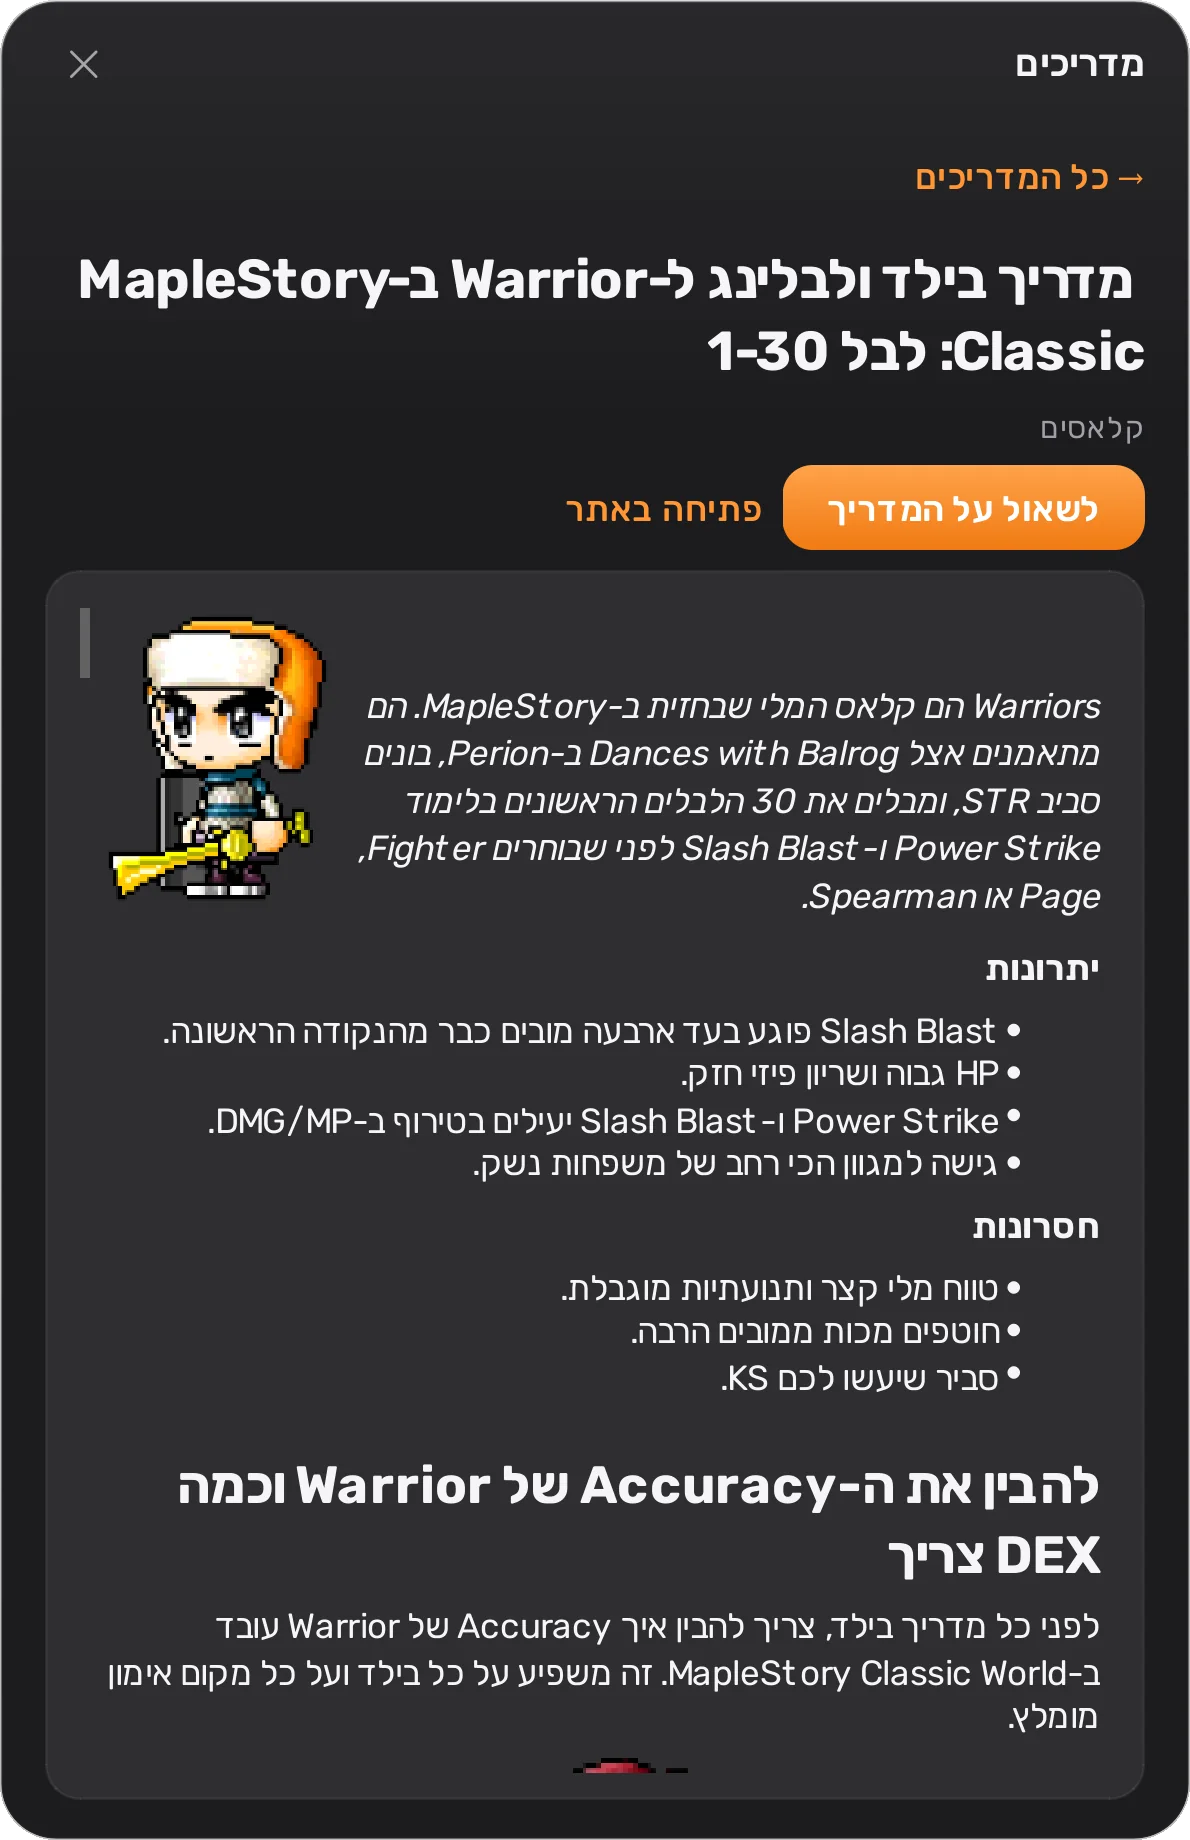
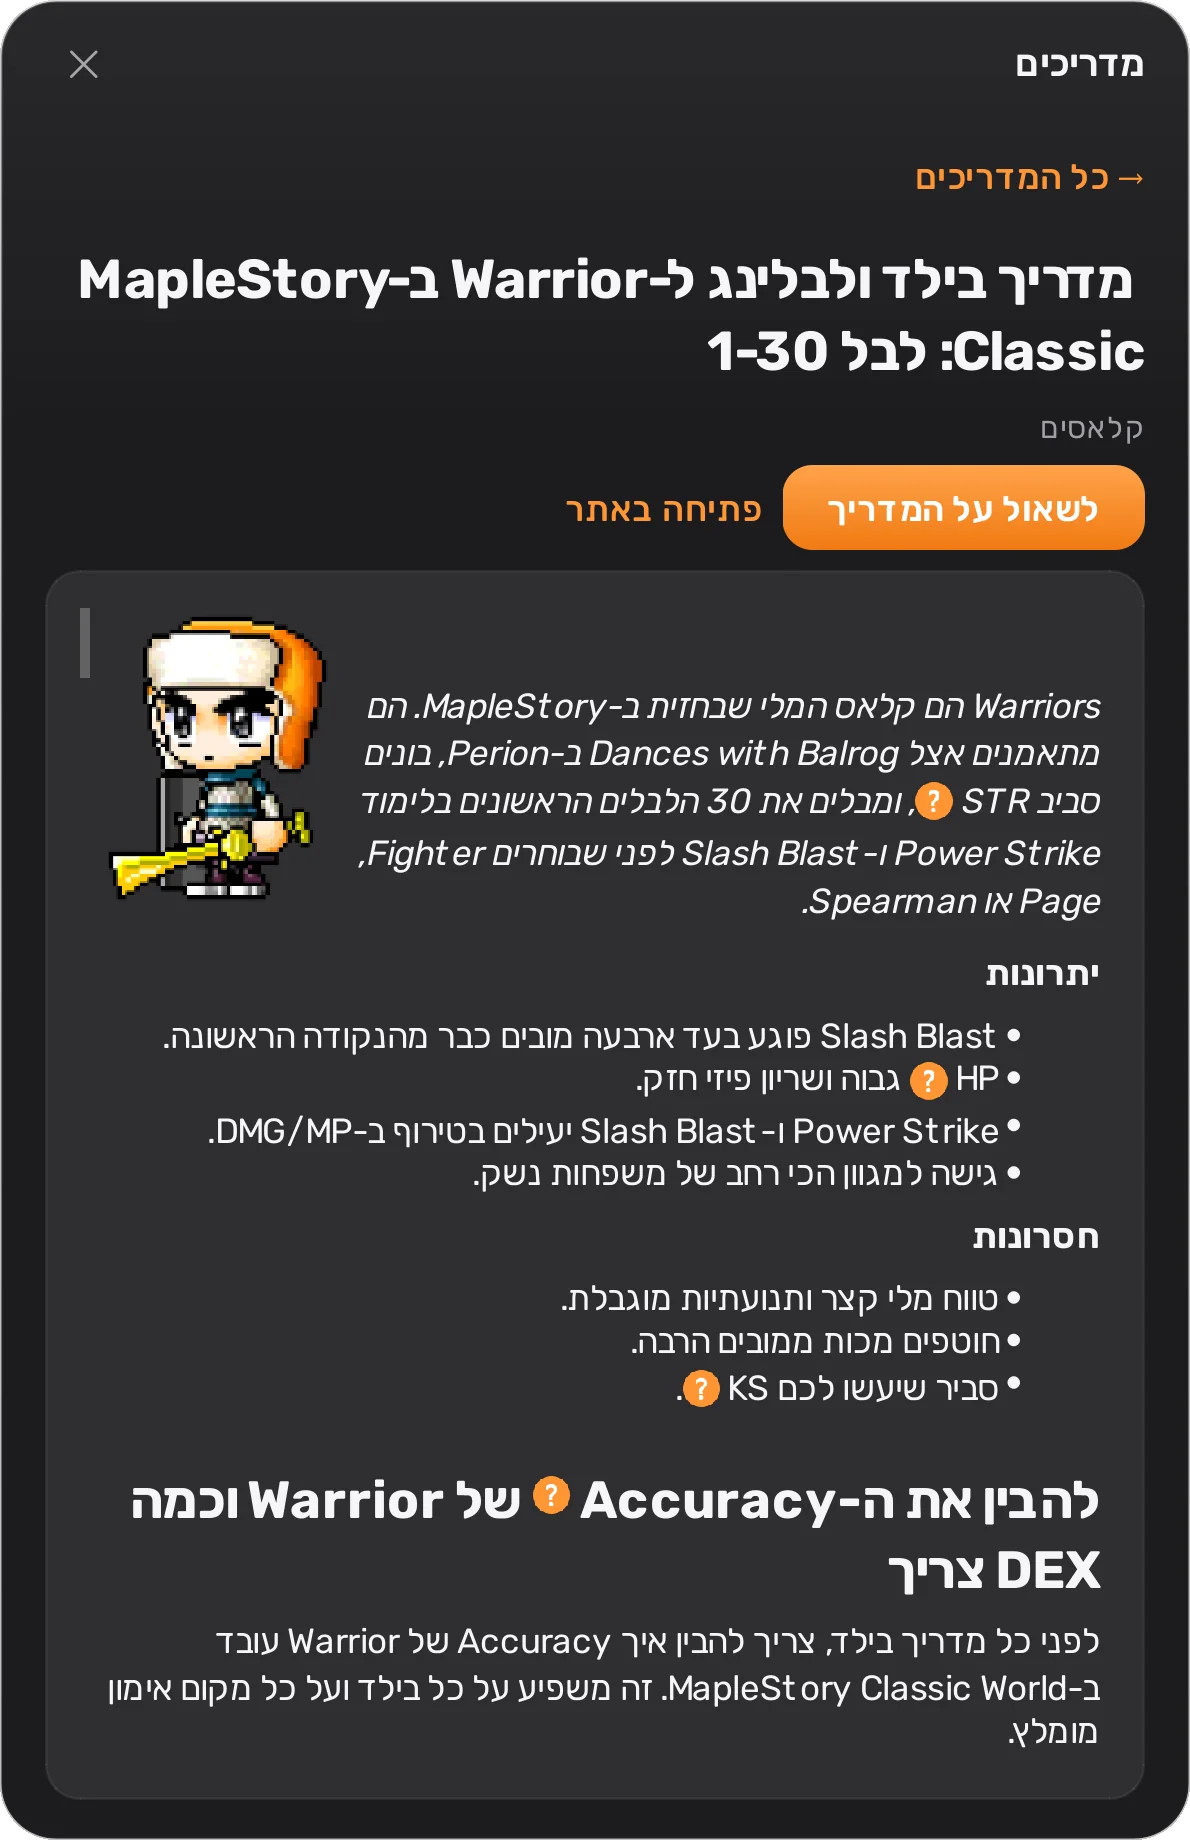
0.7.0: a play tools section (where to train, crafting, quests, build, prices, term help), fresh screenshots

Changed region(s): [[0.0933, 0.5266, 0.9328, 0.9913], [0.3109, 0.4027, 0.9328, 0.5266]]

diff --git a/index.html b/index.html
@@ -169,6 +169,9 @@
     <symbol id="i-mac" viewBox="0 0 24 24"><path fill="none" stroke="currentColor" stroke-width="2" stroke-linecap="round" stroke-linejoin="round" d="M15 6v12a3 3 0 1 0 3-3H6a3 3 0 1 0 3 3V6a3 3 0 1 0-3 3h12a3 3 0 1 0-3-3"/></symbol>
     <symbol id="i-zap" viewBox="0 0 24 24"><path fill="none" stroke="currentColor" stroke-width="2" stroke-linejoin="round" d="M13 2 3 14h9l-1 8 10-12h-9l1-8z"/></symbol>
     <symbol id="i-image" viewBox="0 0 24 24"><g fill="none" stroke="currentColor" stroke-width="2" stroke-linecap="round" stroke-linejoin="round"><rect x="3" y="3" width="18" height="18" rx="3"/><circle cx="9" cy="9" r="2"/><path d="m21 15-4.6-4.6a1.5 1.5 0 0 0-2.1 0L5 20"/></g></symbol>
+    <symbol id="i-tools" viewBox="0 0 24 24"><path fill="none" stroke="currentColor" stroke-width="2" stroke-linecap="round" stroke-linejoin="round" d="M14.7 6.3a1 1 0 0 0 0 1.4l1.6 1.6a1 1 0 0 0 1.4 0l3.8-3.8a6 6 0 0 1-7.9 7.9l-6.9 6.9a2.1 2.1 0 0 1-3-3l6.9-6.9a6 6 0 0 1 7.9-7.9z"/></symbol>
+    <symbol id="i-help" viewBox="0 0 24 24"><g fill="none" stroke="currentColor" stroke-width="2" stroke-linecap="round" stroke-linejoin="round"><circle cx="12" cy="12" r="10"/><path d="M9.1 9a3 3 0 0 1 5.8 1c0 2-3 3-3 3M12 17h.01"/></g></symbol>
+    <symbol id="i-coin" viewBox="0 0 24 24"><g fill="none" stroke="currentColor" stroke-width="2" stroke-linecap="round"><circle cx="12" cy="12" r="9"/><path d="M15 9.5c-.5-1-1.6-1.5-3-1.5-1.7 0-3 .8-3 2s1.3 1.7 3 2 3 .8 3 2-1.3 2-3 2c-1.4 0-2.5-.5-3-1.5M12 6v2M12 16v2"/></g></symbol>
     <symbol id="i-star" viewBox="0 0 24 24"><path fill="none" stroke="currentColor" stroke-width="2" stroke-linejoin="round" d="m12 2.8 2.8 5.8 6.3.9-4.6 4.4 1.1 6.3L12 17.2l-5.6 3 1.1-6.3-4.6-4.4 6.3-.9z"/></symbol>
     <symbol id="i-notes" viewBox="0 0 24 24"><g fill="none" stroke="currentColor" stroke-width="2" stroke-linecap="round" stroke-linejoin="round"><path d="M14 2H6a2 2 0 0 0-2 2v16a2 2 0 0 0 2 2h12a2 2 0 0 0 2-2V8z"/><path d="M14 2v6h6M8 13h8M8 17h5"/></g></symbol>
     <symbol id="i-book" viewBox="0 0 24 24"><g fill="none" stroke="currentColor" stroke-width="2" stroke-linecap="round" stroke-linejoin="round"><path d="M4 19.5A2.5 2.5 0 0 1 6.5 17H20V3H6.5A2.5 2.5 0 0 0 4 5.5z"/><path d="M4 19.5A2.5 2.5 0 0 0 6.5 22H20v-5"/></g></symbol>
@@ -202,6 +205,7 @@
       <ul>
         <li><a href="#how">איך זה עובד</a></li>
         <li><a href="#features">מה יש בו</a></li>
+        <li><a href="#tools">כלי משחק</a></li>
         <li><a href="#install">התקנה</a></li>
         <li><a href="#privacy">פרטיות</a></li>
         <li><a href="#faq">שאלות</a></li>
@@ -393,6 +397,72 @@
             <li><span>כל עדכון נבדק מול <bdi dir="ltr">checksum</bdi> לפני ההתקנה</span></li>
             <li><span>היסטוריית השיחות והדמויות נשמרות בין גרסאות</span></li>
           </ul>
+        </article>
+      </div>
+    </div>
+  </section>
+
+  <section id="tools" aria-labelledby="tools-title">
+    <div class="wrap">
+      <div class="sec-head reveal">
+        <p class="kicker">חדש בגרסה 0.7</p>
+        <h2 id="tools-title">כלי משחק: מחשבונים ותוכניות לצד הצ'אט</h2>
+        <p>כפתור הכלים בצ'אט פותח חלון שעומד ליד המשחק. כל מה שבו מחושב מהמאגר ומהדמות שלכם, בלי לשאול את ה-<bdi dir="ltr">AI</bdi> ובלי לחכות.</p>
+      </div>
+
+      <div class="bento">
+        <article class="tile wide split glass reveal">
+          <div>
+            <h3><span class="ico"><svg aria-hidden="true"><use href="#i-tools"/></svg></span>איפה לאמן, ומחשבון פגיעה ונזק</h3>
+            <p>מפות לפי הלבל שלכם, מדורגות: כמה אחוז פגיעה יש לכם, כמה מכות להרוג, כמה <bdi dir="ltr">EXP</bdi> לכל מפלצת וכמה מפלצות עד הלבל הבא.</p>
+            <p>במחשבון בוחרים מפלצת מרשימה עם תמונות ורואים כמה <bdi dir="ltr">ACC</bdi> צריך כדי לא לפספס, ואיפה היא חיה.</p>
+          </div>
+          <div class="shot crop">
+            <picture>
+              <source media="(prefers-color-scheme: dark)" srcset="assets/shots/tools-train-dark.webp">
+              <img src="assets/shots/tools-train-light.webp" width="1190" height="1840" loading="lazy" decoding="async"
+                   alt="כלי המשחק: איפה לאמן, מפות ללבל 34 עם אחוז פגיעה, מכות להריגה ו-EXP">
+            </picture>
+          </div>
+        </article>
+
+        <article class="tile half glass reveal">
+          <h3><span class="ico"><svg aria-hidden="true"><use href="#i-star"/></svg></span>קראפטינג</h3>
+          <p>שישה מקצועות, וכל אחד מוסבר: מה מייצרים, מי המורה ובאיזו עיר, קווסט הפתיחה וקווסט המומחה, ואיפה יוצרים. מתחת: כל המתכונים לרמה שלכם, הכי משתלמים קודם.</p>
+          <div class="shot crop">
+            <picture>
+              <source media="(prefers-color-scheme: dark)" srcset="assets/shots/tools-crafting-dark.webp">
+              <img src="assets/shots/tools-crafting-light.webp" width="1190" height="1840" loading="lazy" decoding="async"
+                   alt="קראפטינג: Woodcrafting עם המורה Vicious ב-Henesys Market, הקווסטים ותחנת העבודה">
+            </picture>
+          </div>
+        </article>
+
+        <article class="tile half glass reveal">
+          <h3><span class="ico"><svg aria-hidden="true"><use href="#i-notes"/></svg></span>קווסטים ללבל שלכם</h3>
+          <p>הקווסטים שאפשר לקחת עכשיו ואלה שבדרך, עם תמונת ה-<bdi dir="ltr">NPC</bdi>, מה צריך להביא ומה מקבלים. מסמנים מה כבר עשיתם.</p>
+          <div class="shot crop">
+            <picture>
+              <source media="(prefers-color-scheme: dark)" srcset="assets/shots/tools-quests-dark.webp">
+              <img src="assets/shots/tools-quests-light.webp" width="1190" height="1840" loading="lazy" decoding="async"
+                   alt="רשימת קווסטים ללבל 34 עם תמונות ה-NPC, החומרים והפרסים">
+            </picture>
+          </div>
+        </article>
+
+        <article class="tile third glass reveal">
+          <h3><span class="ico"><svg aria-hidden="true"><use href="#i-user"/></svg></span>תוכנית בילד</h3>
+          <p>טבלאות ה-<bdi dir="ltr">AP</bdi>, ה-<bdi dir="ltr">SP</bdi> והציוד מהמדריך של המקצוע שלכם, עם השורה של הלבל שלכם מודגשת. וגם אזרחות: איזו עיר מתאימה לכם ואילו קווסטים יש בה.</p>
+        </article>
+
+        <article class="tile third glass reveal">
+          <h3><span class="ico"><svg aria-hidden="true"><use href="#i-coin"/></svg></span>מחירים, תיק וקניות</h3>
+          <p>מחירי <bdi dir="ltr">NPC</bdi> וחציון חי מה-<bdi dir="ltr">Free Market</bdi> לפי דיווחי שחקנים. בדיקה מה למכור ומה לשמור לקראפטינג, רשימת קניות למפה ומד <bdi dir="ltr">EXP</bdi> לשעה.</p>
+        </article>
+
+        <article class="tile third glass reveal">
+          <h3><span class="ico"><svg aria-hidden="true"><use href="#i-help"/></svg></span>סימן ? ליד כל מונח</h3>
+          <p>לא בטוחים מה זה <bdi dir="ltr">Avoid</bdi> או <bdi dir="ltr">AP</bdi>? מעבירים את העכבר על הסימן הכתום ומקבלים הסבר קצר, בכלים, בצ'אט ובמדריכים.</p>
         </article>
       </div>
     </div>

diff --git a/en/index.html b/en/index.html
@@ -169,6 +169,9 @@
     <symbol id="i-mac" viewBox="0 0 24 24"><path fill="none" stroke="currentColor" stroke-width="2" stroke-linecap="round" stroke-linejoin="round" d="M15 6v12a3 3 0 1 0 3-3H6a3 3 0 1 0 3 3V6a3 3 0 1 0-3 3h12a3 3 0 1 0-3-3"/></symbol>
     <symbol id="i-zap" viewBox="0 0 24 24"><path fill="none" stroke="currentColor" stroke-width="2" stroke-linejoin="round" d="M13 2 3 14h9l-1 8 10-12h-9l1-8z"/></symbol>
     <symbol id="i-image" viewBox="0 0 24 24"><g fill="none" stroke="currentColor" stroke-width="2" stroke-linecap="round" stroke-linejoin="round"><rect x="3" y="3" width="18" height="18" rx="3"/><circle cx="9" cy="9" r="2"/><path d="m21 15-4.6-4.6a1.5 1.5 0 0 0-2.1 0L5 20"/></g></symbol>
+    <symbol id="i-tools" viewBox="0 0 24 24"><path fill="none" stroke="currentColor" stroke-width="2" stroke-linecap="round" stroke-linejoin="round" d="M14.7 6.3a1 1 0 0 0 0 1.4l1.6 1.6a1 1 0 0 0 1.4 0l3.8-3.8a6 6 0 0 1-7.9 7.9l-6.9 6.9a2.1 2.1 0 0 1-3-3l6.9-6.9a6 6 0 0 1 7.9-7.9z"/></symbol>
+    <symbol id="i-help" viewBox="0 0 24 24"><g fill="none" stroke="currentColor" stroke-width="2" stroke-linecap="round" stroke-linejoin="round"><circle cx="12" cy="12" r="10"/><path d="M9.1 9a3 3 0 0 1 5.8 1c0 2-3 3-3 3M12 17h.01"/></g></symbol>
+    <symbol id="i-coin" viewBox="0 0 24 24"><g fill="none" stroke="currentColor" stroke-width="2" stroke-linecap="round"><circle cx="12" cy="12" r="9"/><path d="M15 9.5c-.5-1-1.6-1.5-3-1.5-1.7 0-3 .8-3 2s1.3 1.7 3 2 3 .8 3 2-1.3 2-3 2c-1.4 0-2.5-.5-3-1.5M12 6v2M12 16v2"/></g></symbol>
     <symbol id="i-star" viewBox="0 0 24 24"><path fill="none" stroke="currentColor" stroke-width="2" stroke-linejoin="round" d="m12 2.8 2.8 5.8 6.3.9-4.6 4.4 1.1 6.3L12 17.2l-5.6 3 1.1-6.3-4.6-4.4 6.3-.9z"/></symbol>
     <symbol id="i-notes" viewBox="0 0 24 24"><g fill="none" stroke="currentColor" stroke-width="2" stroke-linecap="round" stroke-linejoin="round"><path d="M14 2H6a2 2 0 0 0-2 2v16a2 2 0 0 0 2 2h12a2 2 0 0 0 2-2V8z"/><path d="M14 2v6h6M8 13h8M8 17h5"/></g></symbol>
     <symbol id="i-book" viewBox="0 0 24 24"><g fill="none" stroke="currentColor" stroke-width="2" stroke-linecap="round" stroke-linejoin="round"><path d="M4 19.5A2.5 2.5 0 0 1 6.5 17H20V3H6.5A2.5 2.5 0 0 0 4 5.5z"/><path d="M4 19.5A2.5 2.5 0 0 0 6.5 22H20v-5"/></g></symbol>
@@ -202,6 +205,7 @@
       <ul>
         <li><a href="#how">How it works</a></li>
         <li><a href="#features">Features</a></li>
+        <li><a href="#tools">Play tools</a></li>
         <li><a href="#install">Install</a></li>
         <li><a href="#privacy">Privacy</a></li>
         <li><a href="#faq">FAQ</a></li>
@@ -393,6 +397,72 @@
             <li><span>Every update is checked against a checksum before it's installed</span></li>
             <li><span>Your conversations and characters carry over between versions</span></li>
           </ul>
+        </article>
+      </div>
+    </div>
+  </section>
+
+  <section id="tools" aria-labelledby="tools-title">
+    <div class="wrap">
+      <div class="sec-head reveal">
+        <p class="kicker">New in 0.7</p>
+        <h2 id="tools-title">Play tools: calculators and planners beside the chat</h2>
+        <p>The tools button in the chat opens a window that sits next to the game. Everything in it is worked out from the database and your character, without asking the AI or waiting.</p>
+      </div>
+
+      <div class="bento">
+        <article class="tile wide split glass reveal">
+          <div>
+            <h3><span class="ico"><svg aria-hidden="true"><use href="#i-tools"/></svg></span>Where to train, and a hit & damage calculator</h3>
+            <p>Maps for your level, ranked: your hit chance, hits to kill, EXP per monster and how many kills to the next level.</p>
+            <p>In the calculator, pick a monster from a list with pictures to see the ACC you need to never miss, and where it lives.</p>
+          </div>
+          <div class="shot crop">
+            <picture>
+              <source media="(prefers-color-scheme: dark)" srcset="../assets/shots/en/tools-train-dark.webp">
+              <img src="../assets/shots/en/tools-train-light.webp" width="1190" height="1840" loading="lazy" decoding="async"
+                   alt="Play tools, where to train: maps for Lv. 34 with hit chance, hits to kill and EXP">
+            </picture>
+          </div>
+        </article>
+
+        <article class="tile half glass reveal">
+          <h3><span class="ico"><svg aria-hidden="true"><use href="#i-star"/></svg></span>Crafting</h3>
+          <p>Six professions, each explained: what it makes, the teacher and their town, the first and master quests, and where to craft. Below: every recipe for your level, best value first.</p>
+          <div class="shot crop">
+            <picture>
+              <source media="(prefers-color-scheme: dark)" srcset="../assets/shots/en/tools-crafting-dark.webp">
+              <img src="../assets/shots/en/tools-crafting-light.webp" width="1190" height="1840" loading="lazy" decoding="async"
+                   alt="Crafting: Woodcrafting with its teacher Vicious in Henesys Market, the quests and the work station">
+            </picture>
+          </div>
+        </article>
+
+        <article class="tile half glass reveal">
+          <h3><span class="ico"><svg aria-hidden="true"><use href="#i-notes"/></svg></span>Quests for your level</h3>
+          <p>The quests you can take now and the ones coming up, with the NPC's picture, what to bring and what you get. Mark the ones you've done.</p>
+          <div class="shot crop">
+            <picture>
+              <source media="(prefers-color-scheme: dark)" srcset="../assets/shots/en/tools-quests-dark.webp">
+              <img src="../assets/shots/en/tools-quests-light.webp" width="1190" height="1840" loading="lazy" decoding="async"
+                   alt="Quests for Lv. 34 with pictures of the NPC, the items and the rewards">
+            </picture>
+          </div>
+        </article>
+
+        <article class="tile third glass reveal">
+          <h3><span class="ico"><svg aria-hidden="true"><use href="#i-user"/></svg></span>Build plan</h3>
+          <p>The AP, SP and gear tables from your class guide, with your level's row highlighted. Plus citizenship: which town suits you and its quests.</p>
+        </article>
+
+        <article class="tile third glass reveal">
+          <h3><span class="ico"><svg aria-hidden="true"><use href="#i-coin"/></svg></span>Prices, bag & shopping</h3>
+          <p>NPC prices and a live Free Market median from player reports. A check of what to sell and what to keep for crafting, a shopping list for a map, and an EXP-per-hour meter.</p>
+        </article>
+
+        <article class="tile third glass reveal">
+          <h3><span class="ico"><svg aria-hidden="true"><use href="#i-help"/></svg></span>A ? beside every term</h3>
+          <p>Not sure what Avoid or AP means? Hover the orange mark for a short explanation, in the tools, the chat and the guides.</p>
         </article>
       </div>
     </div>
